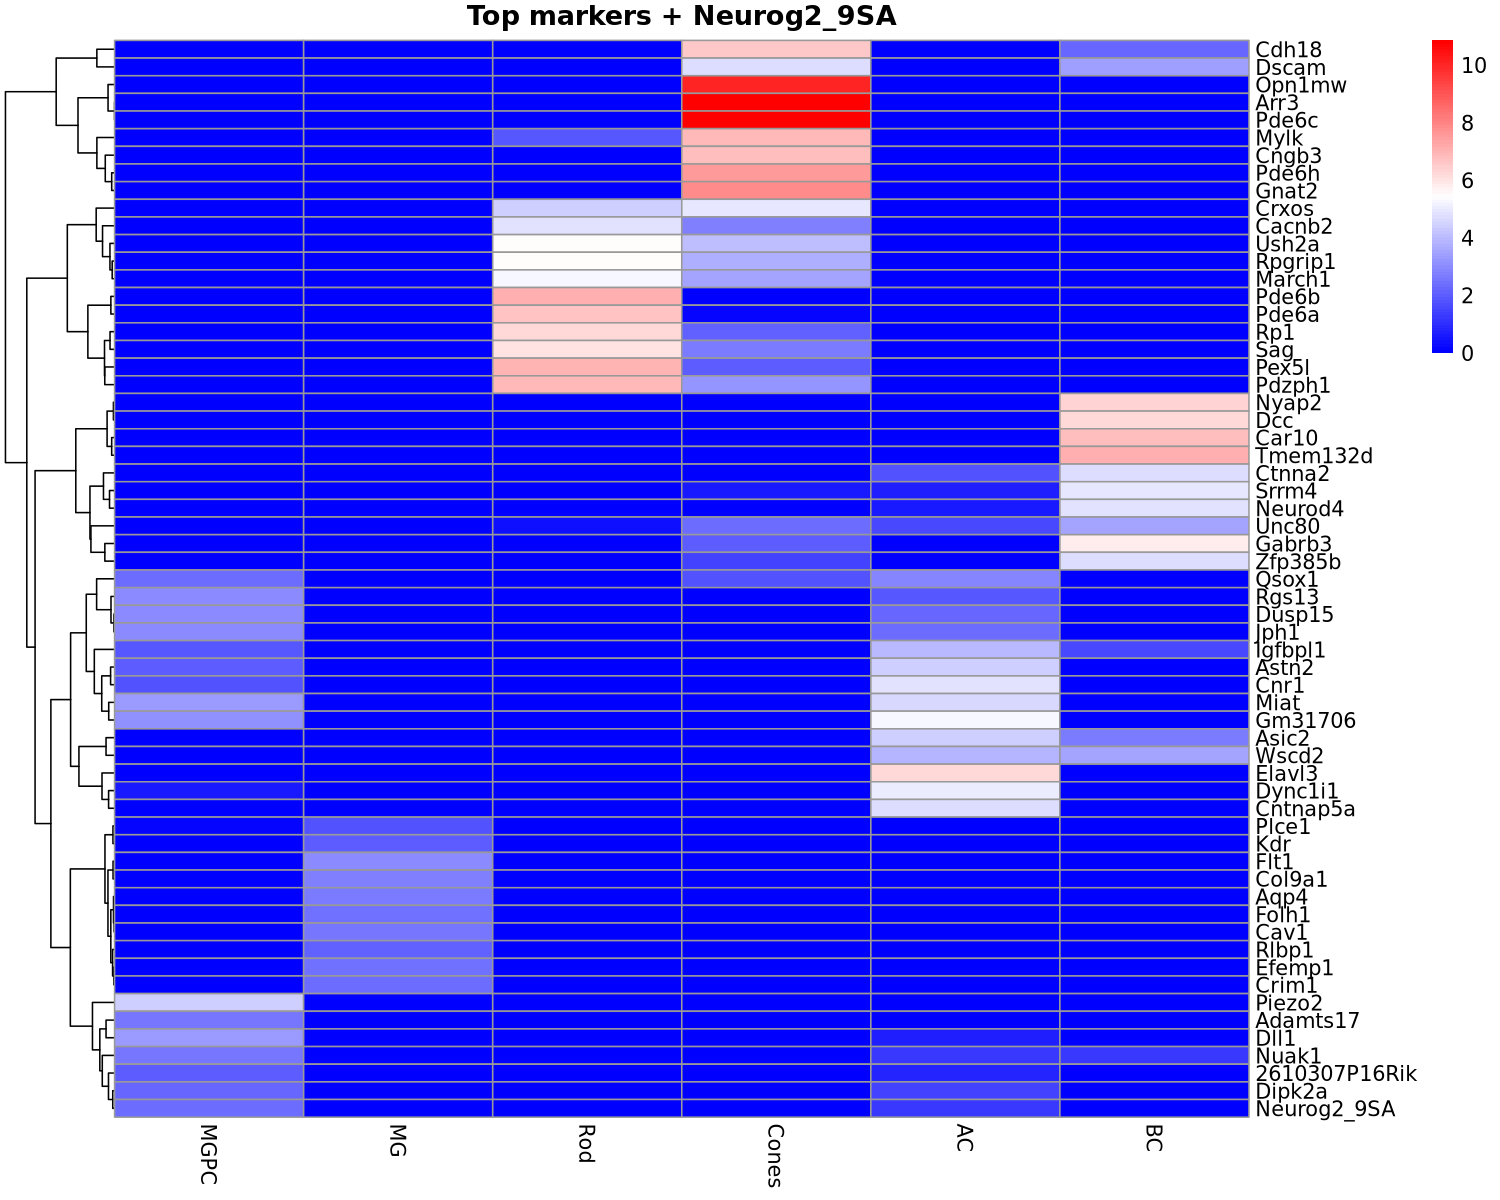
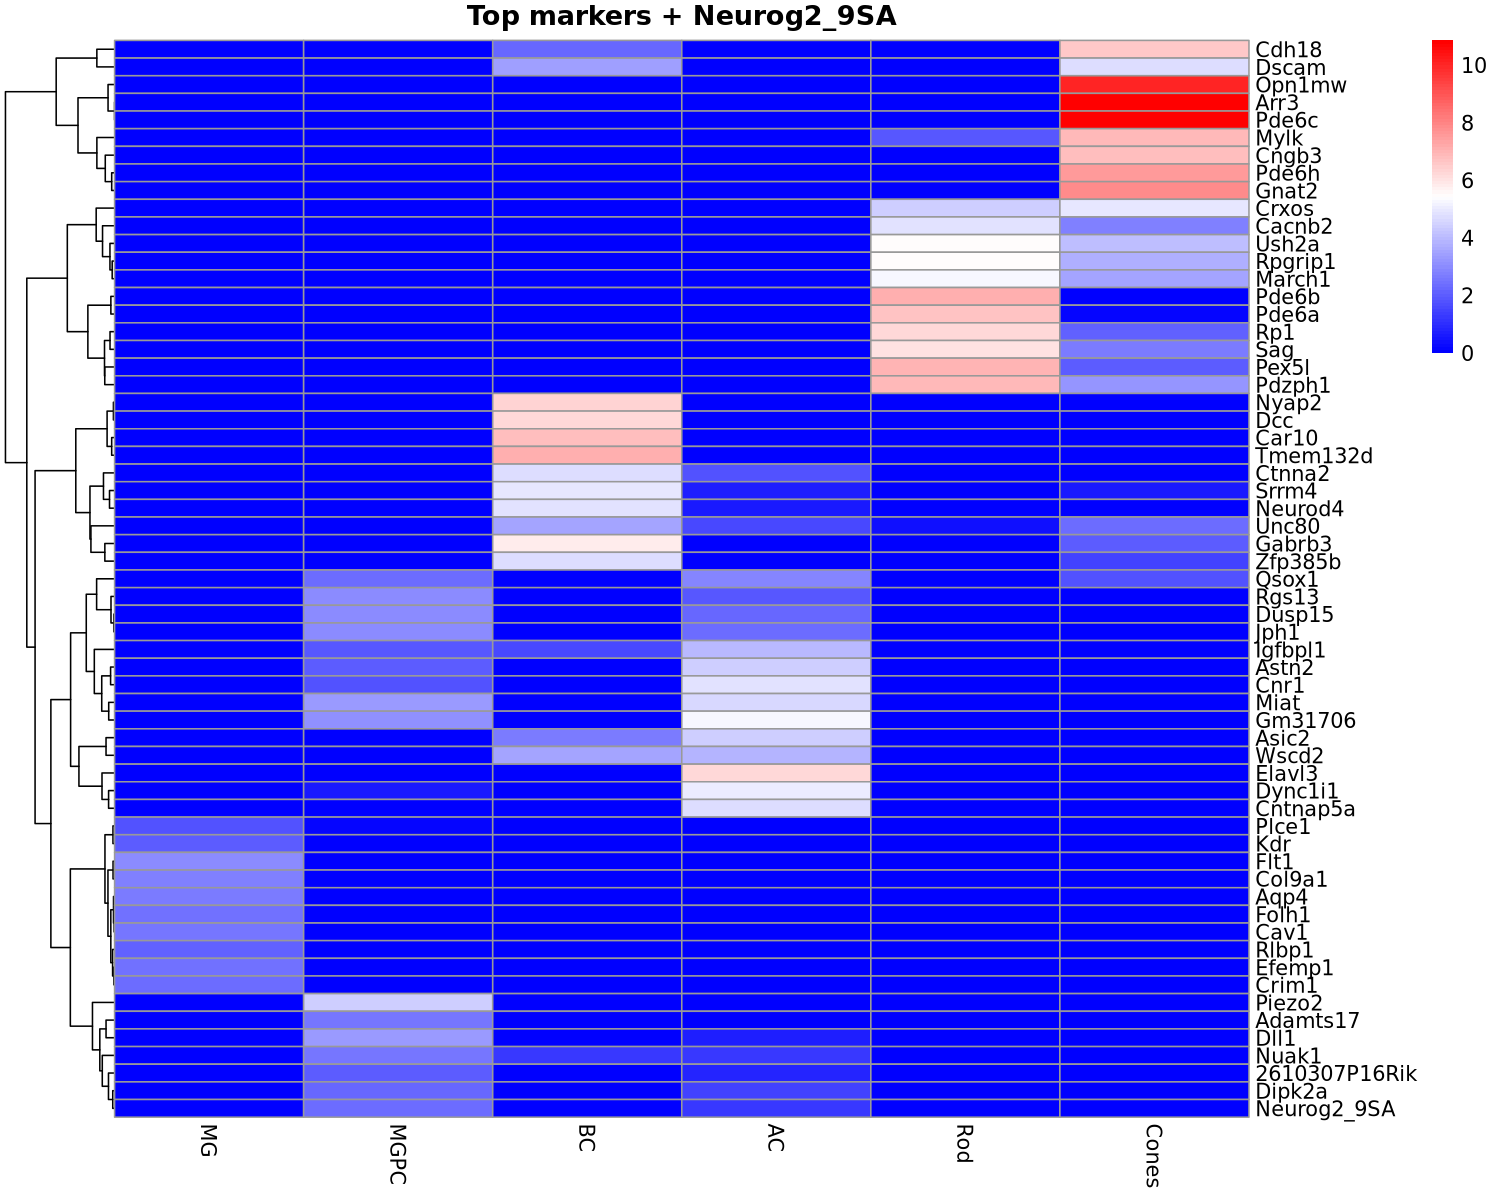
Fix celltype order in heatmap

diff --git a/README.md b/README.md
@@ -128,7 +128,7 @@ celltype_markers <- FindAllMarkers(
 
 ##### Select Neurog2-S9A and top 10 markers ranked based on p_val_adj heatmap 
 
-![](figures/Neurog2-9SATopMarkers_heatmap.png?v=1)
+![](figures/Neurog2-9SATopMarkers_heatmap.png?v=2)
 
 
 #### Top markers heatmap  
